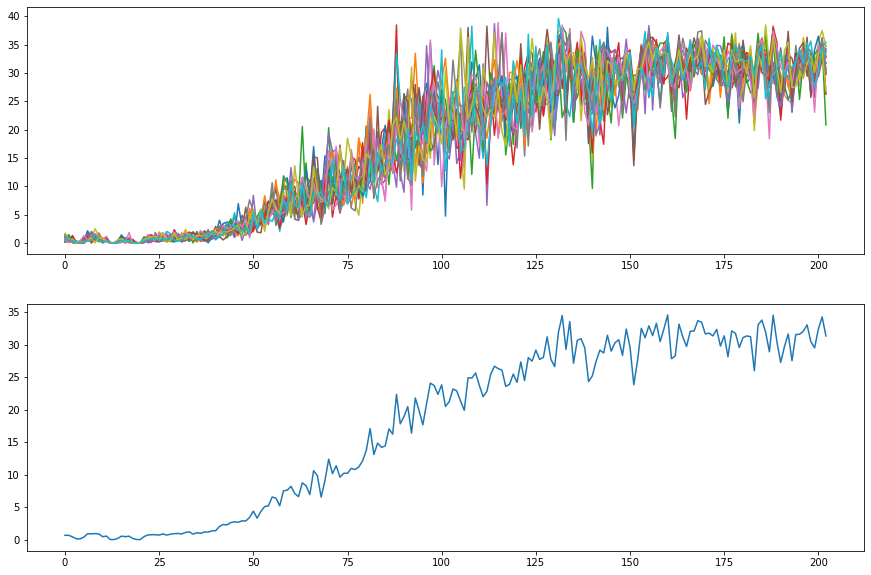
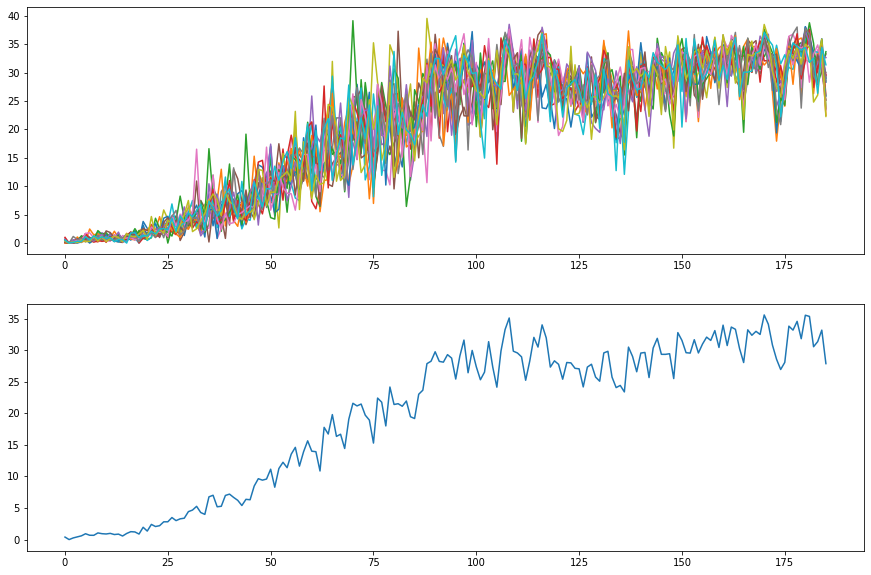
Complete report

diff --git a/README.md b/README.md
@@ -101,6 +101,7 @@ This used implementation of the PPO algorithm uses the following modules:
 - learning rate for actor and critic of `1e-4` while it uses `1e-3` for training the std parameters.
 - We implement 2 different versions of the ReplayBuffer: with and without priority.
 - We use a discount factor $\gamma$ = `0.99` to improve the longtermism of the agent.
+- The Target network is updated from the local network with $\tau$ = `0.01`
 
 ## Section 4: Results
 The results of the training can be observed in the folders:
@@ -109,25 +110,56 @@ The results of the training can be observed in the folders:
 
 If you wish to see the trained agents in execution please use the `pretrained_demo.ipynb` notebook. It will load the models and run one episode of 1000 steps max.
 ### PPO
-Proximal Policy Optimization
+PPO reaches convergence quite fast, but it can result very sensitive to the hyperparameter values. In particular, too large learning rate or $\varepsilon$ values may lead to unstable learning procedures. The agent could start decreasing it's performance with time.
+That said, once well tuned the algorithm is quite fast in executing each learning episode and in its learning progress.
+With PPO the 20 Reacher problem could be stopped after 120 episodes of training. However, it could still continue improving.
+#### Proximal Policy Optimization - Early Stopped
 <img src="figures/PPO_early-stopped_Training_progression.png" alt="DDPG Training progression" style="border: 5px solid  gray; background: white">
 
+As shown below, the algorithm reaches the theoretical limit of the environment lacking the chance of further improvement. Here we can see that with less than 150 episodes the agent has very low variance in the execution performance.
+
+#### Proximal Policy Optimization - Convergence
 <img src="figures/PPO_Training_progression.png" alt="DDPG Training progression" style="border: 5px solid  gray; background: white">
 
+As can be seen below the agent trained with PPO behave quite nicely even when exploration variance is still present. That said in the execution tests we performed we can still notice some non smooth movements in the agent behaviour in some robot configurations.
+#### PPO - One training episode
 <div style="text-align: center;">
 <img src="figures/reacher20.gif" alt="DDPG Training progression" style="border: 5px solid  gray; background: white; width: 20em"></div>
 
-### DDPG
+### DDPG - Early stopped
+DDPG had a slower evolution. However, the different agents behaved more uniformly during the training than in the PPO case (There are many less individual spikes). That said the algorithm reached the target after 200 episodes.
 
+#### DDPG base-buffer-replay
 <img src="figures/DDPG_Training_progression.png" alt="DDPG Training progression" style="border: 5px solid gray; background: white; align: center">
+
+To improve the training we tried implement a priority mechanisms for the ReplayBuffer based on sample utilization.
+It did not seem to help particularly and slowed down the model execution significantly (20.42s/episode -> 63.82s/episode during training.).
+
+#### DDPG priority-buffer-replay
+<img src="figures/DDPG_priority_Training_progression.png" alt="DDPG Training progression" style="border: 5px solid gray; background: white; align: center">
 
 
 ## Section 5: Possible improvements
+### Environment/Problem
+- Continuously decrease the radius of the target sphere with the improvement of the performance. This will generate robots to reach accurately every point of the workspace.
+- Adding obstacles in the path to teach the algorithm to perform some obstacle avoidance behaviour. Perhaps this can be performed with an hierarchical agent (e.g. one generates the naive next step of the trajectory, another uses it as input to created a obstacle avoiding trajectory).
+- Increse the speed of the target after convergence (but keeping the max speed of the robot constant). I am curious to see how the agent adapts to fastly moving targets. It could be interesting to provide a forecasting module to the network capable to anticipate the target's behaviour.
+- Introducing a window of temporal entropy coefficient to the reward. I notice some little jumps in the execution of the environment. Perhaps this can avoid these jumpy movements in the local space.
+- I see how some agent like this one could be useful to learn "fast" trajectory planning for the robots. It would be interesting to observe the behaviour together with a robot teleoperation system. In particular, I think that robustness to noisy input can be a desirable aspect. Thus adding some noise to the observation space could make the policy more robust.
+
 ### PPO
+Possible improvements to the PPO algorithm are:
+- Testing additional forms of Normalization. For example it is proven that Normalizing the advantage on the minibatch level provides some benefit to the learning.
+- Annealing the $\varepsilon$, $\beta$ and learning rates of the optmization may provide additional stability to the learning procedure. having the learning rates all set to `1e-3` led to a reverse of the perfomance once close to convergence. Reducing their value while the training progresses may avoid this problem.
+- having the variance as output of the actor network rather than separate paramenters. This could generate specialized values for each observation and speed-up the exploration.
+
 ### DDPG
+- Changing the way priorities are calculated on the PriorityReplayBuffer. Some mechanisms based on the MSE of the Advantage estimation of the state or using the action probability to weight priories. Alternatively one could consider removing too similar samples in the buffer with some clustering mechanisms.
+- One interesting mechanisms would be using a self-supervised learning approach to learn a representation of the state-action-space that is more and more friendly to the agent to master.
+- Test alternative Exploration approaches to the Ornstein-Uhlenbeck process.
+- Faster approaches to compute the priority weights. Currently it slows down the training significantly
+
 ### Both
-
----
-The README describes the the project environment details (i.e., the state and action spaces, and when the environment is considered solved).
-
-The README has instructions for installing dependencies or downloading needed files.
+DDPG and PPO have both advantages and disadvantages. It would be interesting to try training the policy with both in different modalities:
+- Sequentially use DDPG to bootstrap the policy with previously collected samples.
+- Using the two approaches in parallel alternate steps (but Not sure on how to perform the update) could help condensate information from off-policy executions and on-policy improvements
